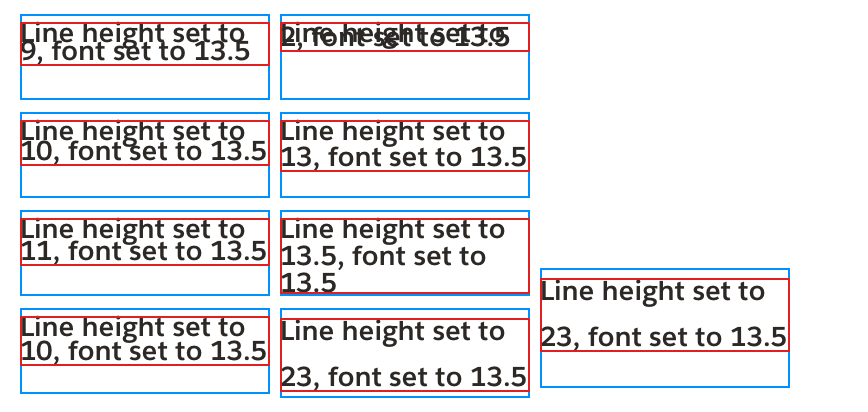
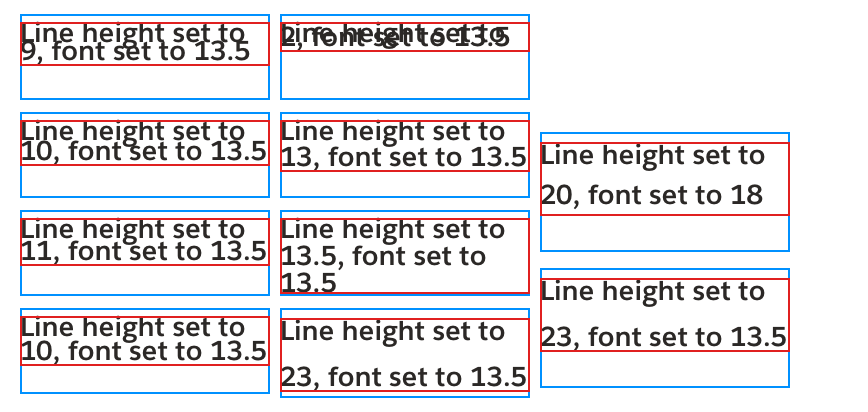
svg vs png diff automation stuff

Changed region(s): [[0.6221, 0.3204, 0.9332, 0.4078], [0.6221, 0.4369, 0.9332, 0.5243], [0.6221, 0.5825, 0.9332, 0.6117]]

diff --git a/config/clean-svgs.js b/config/clean-svgs.js
@@ -8,6 +8,9 @@ const util = require('util');
 const fs = require('fs');
 const jsdom = require("jsdom");
 const { JSDOM } = jsdom;
+const im = require('imagemagick');
+const Pageres = require('pageres');
+var looksSame = require('looks-same');
 
 const { execSync } = require('child_process');
 
@@ -54,26 +57,101 @@ const cleanSVGs = (configData) => {
 			const fileContents = fs.readFileSync(path.join(fileOrDirectoryPath, 'main-svgo-processed', subFileOrDirectory), 'utf8');
 			const dom = new JSDOM(fileContents);
 
-			const correctThese = dom.window.document.querySelectorAll('text[line-spacing]');
-			correctThese.forEach((correctThis) => {
+			const correctLineSpacing = dom.window.document.querySelectorAll('text[line-spacing]');
+			correctLineSpacing.forEach((correctThis) => {
 				const fontSize = correctThis.getAttribute('font-size');
 				const lineSpacing = correctThis.getAttribute('line-spacing');
 				const difference = fontSize - lineSpacing;
 				const distance = Math.ceil(Math.abs(difference));
 				const adjust = (distance > 4 && difference >= 0) ? distance : 4;
+				// I'm dealing with Line Height 20, Font Size 18, and it needs pulled up 4 pixels.
+				// Thus -1 isn't cutting it. No idea why I had this -1 here originally.
+				// ALSO: Making this adjust a negative ends up moving it down instead of up
+				// (because the final step is to do t.getAttribute('y') - adjust, and if adjust is negative
+				// it then becomes the equivalent of t.getAttribute('y') + adjust)
+				// Go go gadget time machine to tell myself to document this!
+				// TODO: invent time machine.
 				const finalAdjust = (difference >= 0) ? adjust : (distance <= fontSize) ? -1 : -adjust;
-				console.log(difference, finalAdjust);
 				correctThis.querySelectorAll('tspan').forEach((t) => {
 					t.setAttribute('y', t.getAttribute('y') - finalAdjust);
 				});
 			});
 
-			fs.writeFileSync(path.join(fileOrDirectoryPath, 'main-svgo-processed', subFileOrDirectory), dom.window.document.body.innerHTML, 'utf8');
+			fs.writeFileSync(path.join(fileOrDirectoryPath, 'main', subFileOrDirectory), dom.window.document.body.innerHTML, 'utf8');
+
+
+			// Move the PNG out of /main into /png-compare
+			console.log(`mkdir -p ${fileOrDirectoryPath}/png-compare && mv ${fileOrDirectoryPath}/main/${subFileOrDirectory.replace('.svg', '.png')} ${fileOrDirectoryPath}/png-compare/`);
+			// TODO: make this mv instead of cp. It is copy now for debug purposes
+			execSync(`mkdir -p ${fileOrDirectoryPath}/png-compare && cp ${fileOrDirectoryPath}/main/${subFileOrDirectory.replace('.svg', '.png')} ${fileOrDirectoryPath}/png-compare/`);
+
+			// Resize PNG to make it 1280x720 so it matches SVG
+			im.resize({
+					srcPath: path.join(fileOrDirectoryPath, 'png-compare', subFileOrDirectory.replace('.svg', '.png')),
+					dstPath: path.join(fileOrDirectoryPath, 'png-compare', subFileOrDirectory.replace('.svg', '.png')),
+					width: 1280
+				},
+				function(err, stdout){
+					console.log('error', err);
+
+					console.log('resized PNG', stdout);
+
+					(async (fileOrDirectoryPath, subFileOrDirectory) => {
+						await new Pageres({delay: 2, filename: 'svg' + subFileOrDirectory.replace('.svg', '')})
+							.src(path.join(fileOrDirectoryPath, 'main', subFileOrDirectory), ['1280x720'], {crop: false})
+							.dest(path.join(fileOrDirectoryPath, 'png-compare'))
+							.run();
+
+						// Compare the png of the SVG with the exported PNG
+						const svgPNG = path.join(fileOrDirectoryPath, 'png-compare', 'svg' + subFileOrDirectory.replace('.svg', '.png'));
+						const exportedPNG = path.join(fileOrDirectoryPath, 'png-compare', subFileOrDirectory.replace('.svg', '.png'));
+
+						looksSame(svgPNG, exportedPNG, function(error, {equal}) {
+							console.log('error', error, 'equal', equal);
+
+							const passFail = equal ? 'passed-svg' : 'failed-svg';
+
+							execSync(`mkdir -p ${fileOrDirectoryPath}/${passFail}`);
+
+							const diffResultPNG = path.join(fileOrDirectoryPath, passFail, subFileOrDirectory.replace('.svg', '.png'))
+
+							looksSame.createDiff({
+								reference: svgPNG,
+								current: exportedPNG,
+								diff: diffResultPNG,
+								highlightColor: '#ff0000', // color to highlight the differences
+								// strict: true, // strict comparsion
+								ignoreAntialiasing: true, // ignore antialising by default
+								ignoreCaret: false // ignore caret by default
+							}, function(error) {
+								console.error('error', error);
+
+								// Create animated gif
+								im.convert([path.join(fileOrDirectoryPath, 'png-compare', '*' + subFileOrDirectory.replace('.svg', '*')), '-resize', '1280x720', '-delay', '500', path.join(fileOrDirectoryPath, passFail, subFileOrDirectory.replace('.svg', '.gif'))],
+									function(err, stdout){
+										console.log('error', err);
+
+										console.log('created gif', stdout);
+										// output path to animated gif to terminal
+										console.log('Animated gif of difference:', path.join(fileOrDirectoryPath, 'png-compare', subFileOrDirectory.replace('.svg', '.gif')));
+									}
+								);
+							});
+						});
+					})(fileOrDirectoryPath, subFileOrDirectory);
+				}
+			);
+
+
+
+
+
+
+
+
+
+
 		});
-
-		console.log(`mkdir -p ${fileOrDirectoryPath}/main && mv ${fileOrDirectoryPath}/main-svgo-processed/* ${fileOrDirectoryPath}/main/`);
-		execSync(`mkdir -p ${fileOrDirectoryPath}/main && mv ${fileOrDirectoryPath}/main-svgo-processed/* ${fileOrDirectoryPath}/main/`);
-
 	});
 }
 

diff --git a/test/demo-flows/svg-vs-png.js b/test/demo-flows/svg-vs-png.js
@@ -28,50 +28,50 @@ module.exports = {
 			name: '0000.magick-flow',
 			description: 'Go to http://localhost:3000/svg-vs-png'
 		},
-		{
-			click: `body`,
-			waitFor: 'body',
-			name: '0010.magick-flow'
-		},
-		{
-			click: `body`,
-			waitFor: 'body',
-			name: '0020.magick-flow'
-		},
-		{
-			click: `body`,
-			waitFor: 'body',
-			name: '0030.magick-flow'
-		},
-		{
-			click: `body`,
-			waitFor: 'body',
-			name: '0040.magick-flow'
-		},
-		{
-			click: `body`,
-			waitFor: 'body',
-			name: '0050.magick-flow'
-		},
-		{
-			click: `body`,
-			waitFor: 'body',
-			name: '0060.magick-flow'
-		},
-		{
-			click: `body`,
-			waitFor: 'body',
-			name: '0070.magick-flow'
-		},
-		{
-			click: `body`,
-			waitFor: 'body',
-			name: '0080.magick-flow'
-		},
-		{
-			click: `body`,
-			waitFor: 'body',
-			name: '0090.magick-flow'
-		}
+		// {
+		// 	click: `body`,
+		// 	waitFor: 'body',
+		// 	name: '0010.magick-flow'
+		// },
+		// {
+		// 	click: `body`,
+		// 	waitFor: 'body',
+		// 	name: '0020.magick-flow'
+		// },
+		// {
+		// 	click: `body`,
+		// 	waitFor: 'body',
+		// 	name: '0030.magick-flow'
+		// },
+		// {
+		// 	click: `body`,
+		// 	waitFor: 'body',
+		// 	name: '0040.magick-flow'
+		// },
+		// {
+		// 	click: `body`,
+		// 	waitFor: 'body',
+		// 	name: '0050.magick-flow'
+		// },
+		// {
+		// 	click: `body`,
+		// 	waitFor: 'body',
+		// 	name: '0060.magick-flow'
+		// },
+		// {
+		// 	click: `body`,
+		// 	waitFor: 'body',
+		// 	name: '0070.magick-flow'
+		// },
+		// {
+		// 	click: `body`,
+		// 	waitFor: 'body',
+		// 	name: '0080.magick-flow'
+		// },
+		// {
+		// 	click: `body`,
+		// 	waitFor: 'body',
+		// 	name: '0090.magick-flow'
+		// }
 	]
 };

diff --git a/test/view-diffs.js b/test/view-diffs.js
@@ -22,8 +22,9 @@ const showDiff = (path) => {
 
 fs.readdirSync(path.join(__dirname, 'screenshots')).forEach((object) => {
 	try{
-		if(object !== '.DS_Store' && fs.statSync(path.join(__dirname, 'screenshots', object, '__different_snapshot__')).isDirectory()) {
-			fs.readdirSync(path.join(__dirname, 'screenshots', object, '__different_snapshot__')).forEach((file) => {
+		const differentSnapshotPath = path.join(__dirname, 'screenshots', object, '__different_snapshot__');
+		if(object !== '.DS_Store' && fs.existsSync(differentSnapshotPath) && fs.statSync(differentSnapshotPath).isDirectory()) {
+			fs.readdirSync(differentSnapshotPath).forEach((file) => {
 				if (file === '.DS_Store') return;
 
 				const diffPath = `${path.join(__dirname, 'screenshots', object, file).replace('.new', '')} ${path.join(__dirname, 'screenshots', object, '__different_snapshot__', file)}`;
